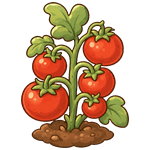
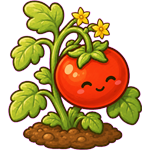
修改战斗CD阴影

diff --git a/src/scenes/BagScene.ts b/src/scenes/BagScene.ts
@@ -440,14 +440,41 @@ export class BagScene extends BaseScene {
       const fullCd = Math.max(0.1, skill.cd * Math.max(0.05, cdMultiplier));
       const rate = Math.max(0, Math.min(1, placed.cdLeft / fullCd));
       if (rate <= 0) continue;
-      for (const [dx, dy] of shape.cells) {
-        const x = this.gridLeft + (placed.x + dx) * pitch;
-        const y = this.gridTop + (placed.y + dy) * pitch;
-        const shade = new Graphics();
-        shade.roundRect(x, y, this.cellSize, this.cellSize * rate, 8).fill({ color: 0x000000, alpha: 0.42 });
-        this.combatCooldownLayer.addChild(shade);
+      const shade = this.createShapeCooldownShade(shape, rate);
+      shade.position.set(this.gridLeft + placed.x * pitch, this.gridTop + placed.y * pitch);
+      this.combatCooldownLayer.addChild(shade);
+    }
+  }
+
+  private createShapeCooldownShade(shape: ItemShapeDef, rate: number): Graphics {
+    const shade = new Graphics();
+    const pitch = this.cellSize + this.cellGap;
+    const cells = shape.cells;
+    const cellKeys = new Set(cells.map(([x, y]) => this.gridCellKey(x, y)));
+    const minY = Math.min(...cells.map(([, y]) => y));
+    const maxY = Math.max(...cells.map(([, y]) => y));
+    const totalHeight = (maxY - minY + 1) * this.cellSize + (maxY - minY) * this.cellGap;
+    const shadeHeight = totalHeight * rate;
+
+    for (const [dx, dy] of cells) {
+      const localY = (dy - minY) * pitch;
+      const visibleH = Math.max(0, Math.min(this.cellSize, shadeHeight - localY));
+      if (visibleH <= 0) continue;
+      shade.rect(dx * pitch, dy * pitch, this.cellSize, visibleH);
+
+      if (cellKeys.has(this.gridCellKey(dx + 1, dy))) {
+        shade.rect(dx * pitch + this.cellSize, dy * pitch, this.cellGap, visibleH);
+      }
+
+      if (cellKeys.has(this.gridCellKey(dx, dy + 1))) {
+        const bridgeY = localY + this.cellSize;
+        const bridgeH = Math.max(0, Math.min(this.cellGap, shadeHeight - bridgeY));
+        if (bridgeH > 0) shade.rect(dx * pitch, dy * pitch + this.cellSize, this.cellSize, bridgeH);
       }
     }
+
+    shade.fill({ color: 0x000000, alpha: 0.42 });
+    return shade;
   }
 
   private drawMushroomWorkerIdle(): void {